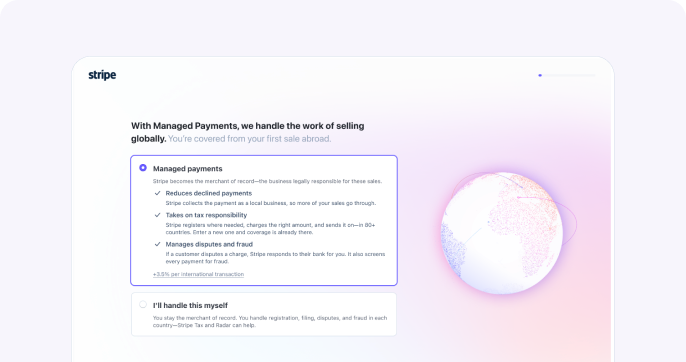
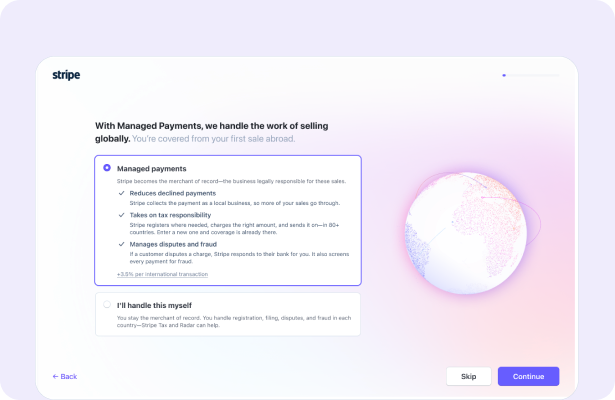
Re-export the taller thumbnails and anchor them to the bottom
The frames are 615x400 now rather than 686x362, which brings their ratio to
1.54 against the card preview's 1.53 — so at the current column width the fit
leaves 1px over instead of 39px, and the shot no longer sits in a band of its
own. Their background changed with the height, so the preview follows it to
#efecfc.

Anchored bottom too. The shot runs flush to the bottom of its frame, so any
slack the fit does leave has to go above it — centred, the shot floats away from
the edge, which is what it was doing at the old ratio.

Committed-By-Agent: claude

diff --git a/variations/index.html b/variations/index.html
@@ -84,16 +84,19 @@
       border: none;
       pointer-events: none;
     }
-    /* Fitted rather than cropped, so the frame's own padding stays in view. The
-       preview takes the thumbnails' pale purple, which is also what their
-       rounded corners are cut out of — so the band left above and below the
-       fitted shot reads as the same field rather than as letterboxing. */
-    .card-preview.has-thumb { background: #f7f5fc; }
+    /* Fitted rather than cropped, so the frame's own 35px of side padding stays
+       in view. The preview takes the frames' own purple, which is also what
+       their rounded corners are cut out of, so whatever the fit leaves over
+       reads as the same field rather than as letterboxing.
+       Bottom-anchored: the shot runs flush to the bottom of its 615x400 frame,
+       so any slack has to go above it or the shot floats. */
+    .card-preview.has-thumb { background: #efecfc; }
     .card-thumb {
       display: block;
       width: 100%;
       height: 100%;
       object-fit: contain;
+      object-position: center bottom;
     }
     .card-preview-placeholder {
       color: var(--text-muted);
